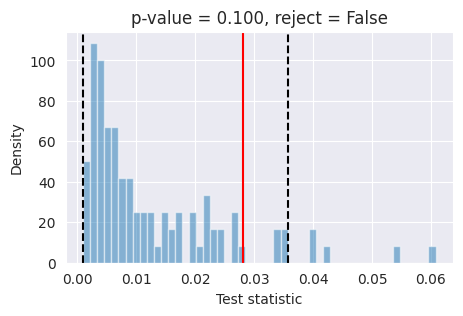
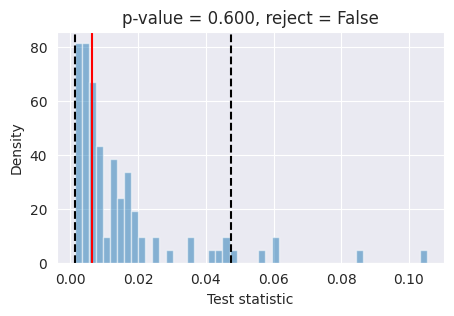
up

diff --git a/examples/sbi-benchmarks/slcp/flow_flux/README.md b/examples/sbi-benchmarks/slcp/flow_flux/README.md
@@ -26,8 +26,10 @@ This document provides a summary of the `flux` model trained on the `slcp` datas
 | `num_heads` | `4` |
 | `depth` | `4` |
 | `depth_single_blocks` | `8` |
-| `axes_dim` | `[10]` |
+| `val_emb_dim` | `20` |
+| `id_emb_dim` | `10` |
 | `qkv_bias` | `True` |
+| `id_merge_mode` | `concat` |
 | `theta` | `-1` |
 | `params_dtype` | `bfloat16` |
 | `id_embedding_strategy` | `['absolute', 'absolute']` |
@@ -37,7 +39,7 @@ This document provides a summary of the `flux` model trained on the `slcp` datas
 | Parameter | Value |
 |---|---|
 | `batch_size` | `256` |
-| `nsteps` | `10000` |
+| `nsteps` | `50000` |
 | `ema_decay` | `0.999` |
 | `multistep` | `1` |
 | `early_stopping` | `False` |
@@ -55,7 +57,7 @@ This document provides a summary of the `flux` model trained on the `slcp` datas
 
 The model's performance is evaluated using the Classifier 2-Sample Test (C2ST). An accuracy score close to 0.5 indicates that the generated samples are highly similar to the true data distribution.
 
-- **Average C2ST Accuracy:** 0.916 ± 0.037
+- **Average C2ST Accuracy:** 0.688 ± 0.046
 
 ---
 *This model card was automatically generated.*

diff --git a/examples/sbi-benchmarks/bernoulli_glm/flow_flux/README.md b/examples/sbi-benchmarks/bernoulli_glm/flow_flux/README.md
@@ -26,8 +26,10 @@ This document provides a summary of the `flux` model trained on the `bernoulli_g
 | `num_heads` | `4` |
 | `depth` | `4` |
 | `depth_single_blocks` | `8` |
-| `axes_dim` | `[20]` |
+| `val_emb_dim` | `10` |
+| `id_emb_dim` | `10` |
 | `qkv_bias` | `True` |
+| `id_merge_mode` | `concat` |
 | `theta` | `-1` |
 | `params_dtype` | `bfloat16` |
 | `id_embedding_strategy` | `['absolute', 'absolute']` |
@@ -55,7 +57,7 @@ This document provides a summary of the `flux` model trained on the `bernoulli_g
 
 The model's performance is evaluated using the Classifier 2-Sample Test (C2ST). An accuracy score close to 0.5 indicates that the generated samples are highly similar to the true data distribution.
 
-- **Average C2ST Accuracy:** 0.560 ± 0.015
+- **Average C2ST Accuracy:** 0.553 ± 0.015
 
 ---
 *This model card was automatically generated.*
